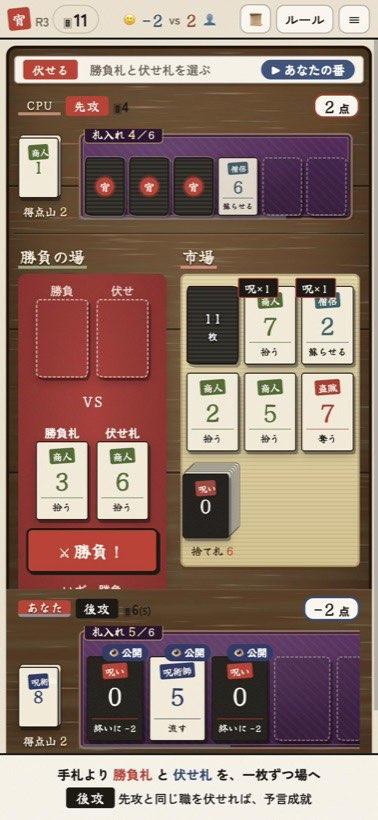
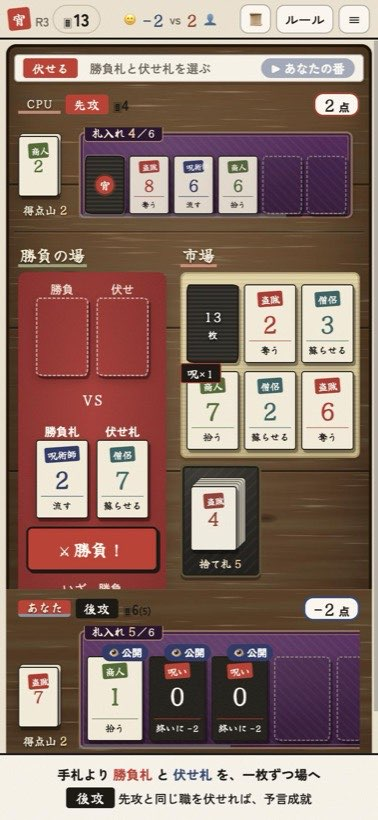
呪い市を更新（1stDCG f13bd0c）

diff --git a/index.html b/index.html
@@ -1042,6 +1042,20 @@ details.fold .quick-title, details.fold .rl-h3 { display: none; }
   .pstats-sub { flex-wrap: nowrap; white-space: nowrap; overflow: hidden; }
   .pstats-main .role-hint { white-space: nowrap; overflow: hidden; text-overflow: ellipsis; max-width: 520px; }
 }
+
+/* 捨て札は、市場の茣蓙とは別の墨色の敷物に置く */
+.market-wrap { display: flex; align-items: stretch; gap: 10px; }
+.discard-mat { flex: none; display: flex; align-items: center; justify-content: center; padding: 12px 12px 8px; border-radius: 6px;
+  background: repeating-linear-gradient(135deg, rgba(255,255,255,.035) 0 2px, transparent 2px 8px), radial-gradient(ellipse at 30% 20%, rgba(255,255,255,.08), transparent 60%), linear-gradient(180deg, #34302b, #221f1b);
+  box-shadow: inset 0 0 0 2px rgba(214,178,98,.35), inset 0 0 0 4px #221f1b, 0 3px 0 rgba(0,0,0,.35); }
+.discard-mat .discard-pile { margin: 0; padding: 0; border: none; }
+.discard-mat .dp-label { color: #f1e3c8; }
+.discard-mat .dp-label b { color: #ffd59a; }
+.discard-mat .sp-empty { color: #cfc3ae; border-color: rgba(241,227,200,.35); }
+@media (max-width: 600px) {
+  .market-wrap { flex-direction: column; gap: 6px; }
+  .discard-mat { align-self: flex-start; padding: 8px 10px 6px; }
+}
 </style>
 </head>
 <body>
@@ -1135,7 +1149,7 @@ details.fold .quick-title, details.fold .rl-h3 { display: none; }
       </ul>
     </li>
     <li><b>🔮 伏せ札オープン</b>
-      <div>2人の伏せ札が<b>同じ種類</b>なら、<b>後攻の予言成功</b>：先攻の伏せ札は無効（効果は発動せず、手札に戻る）。</div>
+      <div>2人の伏せ札が<b>同じ種類</b>なら、<b>後攻の予言成功</b>：先攻の伏せ札は無効（効果は発動せず、捨て札になる）。</div>
     </li>
     <li><b>✨ 伏せ札の効果</b>
       <div>後攻 → 先攻 の順に、<b>必ず発動して捨て札</b>になる（効果で何も起きないときも捨て札）。</div>
@@ -1153,7 +1167,7 @@ details.fold .quick-title, details.fold .rl-h3 { display: none; }
     <div class="rl-box-title">🌕 満月と 🌑 月蝕 <span>（終盤に1回）</span></div>
     <ul class="rl-sub">
       <li><b>いつ</b>：山札が残り10枚を切ったラウンドの初めに、<b>本当の点数</b>（秘密の手札の呪いも含む）で負けている側に満月、勝っている側に月蝕が配られる。正確な点数は知らされない。同点なら次のラウンドで改めて判定</li>
-      <li><b>🌕満月</b>：月蝕以外のすべてに勝ち、<b>負けた相手の札の効果を無効</b>にする。さらに手札の呪い1枚を市場の好きなカードに付けられる</li>
+      <li><b>🌕満月</b>：月蝕以外のすべてに勝ち、<b>負けた相手の札の効果を無効</b>にする（呪いも押し付けられない）。さらに手札の呪い1枚を市場の好きなカードに付けられる</li>
       <li><b>🌑月蝕</b>：満月に勝ち、満月の効果を打ち消す。さらに<b>捨て札から1枚</b>（打ち消した満月も可）を手札に加えられる。満月以外には数字0</li>
       <li>どちらも<b>勝負札専用</b>。使ったら捨て札（得点山には入らない）。持っていても減点なし。僧侶の「蘇らせる」で拾い直せる</li>
     </ul>
@@ -1178,8 +1192,8 @@ details.fold .quick-title, details.fold .rl-h3 { display: none; }
 <template id="screenGuide">
   <div class="screen-guide">
     <div class="sg-shots">
-      <figure class="sg-shot"><div class="sg-img"><img src="guide-pc.jpg" alt="PCで遊んでいるときの画面" loading="lazy"><span class="sg-mark" style="left:11.5%;top:0.5%">1</span><span class="sg-mark" style="left:44%;top:0.5%">2</span><span class="sg-mark" style="left:86.5%;top:0.5%">11</span><span class="sg-mark" style="left:2.2%;top:7.5%">4</span><span class="sg-mark" style="left:33%;top:33%">5</span><span class="sg-mark" style="left:71.5%;top:39%">13</span><span class="sg-mark" style="left:2.5%;top:36.5%">6</span><span class="sg-mark" style="left:21%;top:47%">7</span><span class="sg-mark" style="left:2.2%;top:80.5%">12</span><span class="sg-mark" style="left:8.6%;top:81.5%">8</span><span class="sg-mark" style="left:43.4%;top:81.5%">14</span><span class="sg-mark" style="left:81%;top:6%">9</span><span class="sg-mark" style="left:81%;top:27.5%">10</span><span class="sg-mark" style="left:81%;top:57.5%">3</span></div><figcaption>PC の画面</figcaption></figure>
-      <figure class="sg-shot sp"><div class="sg-img"><img src="guide-sp.jpg" alt="スマホで遊んでいるときの画面" loading="lazy"><span class="sg-mark" style="left:9%;top:0.5%">1</span><span class="sg-mark" style="left:32.5%;top:0.5%">2</span><span class="sg-mark" style="left:63%;top:0.5%">10</span><span class="sg-mark" style="left:73%;top:0.5%">11</span><span class="sg-mark" style="left:3.5%;top:6.8%">3</span><span class="sg-mark" style="left:3.5%;top:11%">4</span><span class="sg-mark" style="left:46.7%;top:29.6%">5</span><span class="sg-mark" style="left:49%;top:56%">13</span><span class="sg-mark" style="left:4.8%;top:33.4%">6</span><span class="sg-mark" style="left:7%;top:64.4%">7</span><span class="sg-mark" style="left:4.5%;top:79.6%">12</span><span class="sg-mark" style="left:20.8%;top:76.8%">8</span><span class="sg-mark" style="left:1%;top:92%">9</span></div><figcaption>スマホの画面</figcaption></figure>
+      <figure class="sg-shot"><div class="sg-img"><img src="guide-pc.jpg" alt="PCで遊んでいるときの画面" loading="lazy"><span class="sg-mark" style="left:11.5%;top:0.5%">1</span><span class="sg-mark" style="left:44%;top:0.5%">2</span><span class="sg-mark" style="left:86.5%;top:0.5%">11</span><span class="sg-mark" style="left:2.2%;top:7.5%">4</span><span class="sg-mark" style="left:32.5%;top:33%">5</span><span class="sg-mark" style="left:71.5%;top:36.5%">13</span><span class="sg-mark" style="left:2.5%;top:36.5%">6</span><span class="sg-mark" style="left:21%;top:47%">7</span><span class="sg-mark" style="left:2.2%;top:80.5%">12</span><span class="sg-mark" style="left:8.6%;top:81.5%">8</span><span class="sg-mark" style="left:43.4%;top:81.5%">14</span><span class="sg-mark" style="left:81%;top:6%">9</span><span class="sg-mark" style="left:81%;top:27.5%">10</span><span class="sg-mark" style="left:81%;top:57.5%">3</span></div><figcaption>PC の画面</figcaption></figure>
+      <figure class="sg-shot sp"><div class="sg-img"><img src="guide-sp.jpg" alt="スマホで遊んでいるときの画面" loading="lazy"><span class="sg-mark" style="left:9%;top:0.5%">1</span><span class="sg-mark" style="left:32.5%;top:0.5%">2</span><span class="sg-mark" style="left:63%;top:0.5%">10</span><span class="sg-mark" style="left:73%;top:0.5%">11</span><span class="sg-mark" style="left:3.5%;top:6.6%">3</span><span class="sg-mark" style="left:3.5%;top:10.7%">4</span><span class="sg-mark" style="left:46.7%;top:29.4%">5</span><span class="sg-mark" style="left:47.7%;top:56.6%">13</span><span class="sg-mark" style="left:4.8%;top:33.2%">6</span><span class="sg-mark" style="left:7%;top:64.2%">7</span><span class="sg-mark" style="left:4.5%;top:79.6%">12</span><span class="sg-mark" style="left:20.8%;top:76.8%">8</span><span class="sg-mark" style="left:1%;top:92%">9</span></div><figcaption>スマホの画面</figcaption></figure>
     </div>
     <ol class="sg-list">
       <li><b>ラウンド・山札</b>：今のラウンドと山札の残り（山札が尽きたラウンドで終わり）</li>
@@ -1194,7 +1208,7 @@ details.fold .quick-title, details.fold .rl-h3 { display: none; }
       <li><b>ログ</b>：これまでに起きたこと（スマホは 📜 ボタンで開く）</li>
       <li><b>ルール</b>：遊んでいる途中でも、ここからルールを確かめられる</li>
       <li><b>得点山</b>：勝った札が重なって貯まる山。押すと中身が見られる</li>
-      <li><b>捨て札</b>：市場の端。一番上が最後に捨てられた札。押すと中身が見られる</li>
+      <li><b>捨て札</b>：市場の隣の墨色の敷物。一番上が最後に捨てられた札。押すと中身が見られる</li>
       <li><b>拾い札</b>：「拾う」「蘇らせる」で手に入れた札の敷物。次のドラフトでは手札の枚数に数えない（スマホは札入れの右。横にずらすと見える）</li>
     </ol>
   </div>
@@ -1892,10 +1906,10 @@ async function playRound() {
     if (winner < 0) return { title: '引き分け', text: '両方の札の効果が発動', style: 'draw' };
     const mine = b[pi], theirs = b[1 - pi];
     if (winner === pi) return { title: '勝ち！', style: 'win',
-      text: theirs && theirs.attr === 'curse' ? '……でも相手の呪いを引き取ってしまう' : '勝負札が自分の得点山へ' };
+      text: theirs && theirs.attr === 'curse' ? (hopeWins ? '満月の力で、呪いははね返した' : '……でも相手の呪いを引き取ってしまう') : '勝負札が自分の得点山へ' };
     return { title: '負け…', style: 'lose',
       text: hasEffect(mine) ? (hopeWins ? '満月の力で、負けた札の効果は無効' : `負けた札の効果「${ATTRS[mine.attr].eff}」が発動`)
-          : mine && mine.attr === 'curse' ? '呪いを相手に押し付けた' : '勝負札は相手の得点山へ' };
+          : mine && mine.attr === 'curse' ? (hopeWins ? '満月にはね返され、呪いは手札に戻った' : '呪いを相手に押し付けた') : '勝負札は相手の得点山へ' };
   };
   render();
   await announce({ title: '', text: '', per: [resultText(0), resultText(1)] }, RESULT_ANN_MS, RESULT_ANN_MS * 0.85);
@@ -1928,6 +1942,10 @@ async function playRound() {
       if (!c) continue;
       // 満月・月蝕は得点山に入らず、使ったら捨て札になる
       if (isSpecial(c)) { toDiscard(c, `${P[pi].name}の${ATTRS[c.attr].name}（使用済み）`); moved(c, Z.field(pi, 'battle'), Z.discard); }
+      else if (c.attr === 'curse' && hopeWin && pi !== winner) {
+        // 満月は、負けた呪いの「押し付け」も無効にする。呪いは出した人の手札に戻る
+        addToHand(P[pi], c); moved(c, Z.field(pi, 'battle'), Z.hand(pi)); log(`🌕満月の力で、${P[pi].name}の呪いは押し付けられずに手札へ戻った`, 'hl');
+      }
       else if (c.attr === 'curse') { addToHand(W, c); moved(c, Z.field(pi, 'battle'), Z.hand(winner)); if (pi !== winner) log(`${W.name}は呪いを引き取った`); }
       else { toScore(W, c, `${P[pi].name}の勝負札（${pi === winner ? '勝ち' : '負け'}）`); moved(c, Z.field(pi, 'battle'), Z.score(winner)); }
     }
@@ -1954,19 +1972,19 @@ async function playRound() {
   await announce({ title: '🔮 伏せ札、開帳', text: '後攻が先攻と同じ職を伏せたなら、予言成就。先攻の伏せ札は封じられる', style: 'fuse' }, PHASE_ANN_MS, PHASE_ANN_MS * 0.7);
   await reveal('fuse');
   log(`伏せ札オープン：${P[0].name} ${cardName(fz[0])} / ${P[1].name} ${cardName(fz[1])}`);
-  // 予言成功（2人の伏せ札が同じ種類）なら、先攻の伏せ札は無効になり手札に戻る
+  // 予言成功（2人の伏せ札が同じ種類）なら、先攻の伏せ札は無効になり捨て札へ
   const active = [!!fz[0], !!fz[1]];
   if (fz[0] && fz[1] && fz[0].attr === fz[1].attr) {
     log(`予言成功！ ${P[s].name}（後攻）が伏せ札を読み切った`, 'hl');
     G.field.prophecy = true;
-    // まず当てた後攻の伏せ札に「予言成功！」を出し、そのあと無効になった先攻の伏せ札を手札へ戻す
+    // まず当てた後攻の伏せ札に「予言成功！」を出し、そのあと無効になった先攻の伏せ札を捨て札へ
     G.fx = { pi: s, kind: 'fuse', label: '🔮予言成就！' };
     render();
     await sleep(FX_STEP * 1.5);
     active[f] = false;
-    addToHand(P[f], fz[f]);
-    moved(fz[f], Z.field(f, 'fuse'), Z.hand(f));
-    log(`${P[f].name}の伏せ札は無効 → 手札に戻る`);
+    toDiscard(fz[f], `${P[f].name}の伏せ札（予言で無効）`);
+    moved(fz[f], Z.field(f, 'fuse'), Z.discard);
+    log(`${P[f].name}の伏せ札は無効 → 捨て札へ`);
     render();
     await sleep(FX_STEP);
     G.fx = null;
@@ -2065,7 +2083,7 @@ function cardTipFull(attr, num, full) {
   if (attr === 'hope') {
     return `<div class="tip-head" data-attr="hope"><span class="tip-num">月</span>🌕 満月<span class="tip-role">負けている側の切り札</span></div>
       ${full ? tipSec('warn', '配られるとき', '', 0, `山札が残り <b>${HOPE_DECK}枚</b> を切ったとき、<b>本当の点数</b>（秘密の手札の呪いも含む）で<b>負けている側</b>に配られる`) : ''}
-      ${tipSec('win', '勝負札にすると', '', 0, `<b>月蝕以外のすべての札に勝つ</b>。さらに<b>負けた相手の札の効果を無効</b>にし、手札の呪いを <b>1枚</b>、市場の好きなカード（呪いが付いていないもの）に付けられる`)}
+      ${tipSec('win', '勝負札にすると', '', 0, `<b>月蝕以外のすべての札に勝つ</b>。さらに<b>負けた相手の札の効果を無効</b>にし（呪いも押し付けられない）、手札の呪いを <b>1枚</b>、市場の好きなカード（呪いが付いていないもの）に付けられる`)}
       <div class="tip-special"><b>相手の勝負札が月蝕のとき</b>：満月の効果は打ち消されて負ける。捨て札に入った満月は、月蝕側に<b>奪われる</b>ことがある</div>
       ${full ? '<div class="tip-note">・勝負札専用（伏せ札にはできない）<br>・使ったら捨て札になる（得点山には入らない）。僧侶の「蘇らせる」で拾い直せる</div>' : ''}`;
   }
@@ -2275,7 +2293,7 @@ function renderView(v) {
   setHTML(msec, `<h2><span class="zone-tag">市場</span> ${pickM
       ? `<span class="pick-banner">▼ ${ui.banner || 'ここから1枚選んでください'}</span>`
       : '<span class="pc-only">みんなで取り合うカード（強いカードには呪いが取り付く）</span>'}</h2>
-    <div class="row">${deckHTML(v.deck)}${v.market.map((s, i) => `<div class="slot ${!pickM ? '' : ui.allowed && !ui.allowed.includes(i) ? 'dim' : 'clickable'}" data-action="market" data-i="${i}">${cardHTML(s.card)}${s.curses.length ? `<div class="curse-tag">呪×${s.curses.length}</div>` : ''}</div>`).join('') || '<span class="info">（空）</span>'}${discardPileHTML(v.discard)}</div>`);
+    <div class="market-wrap"><div class="row">${deckHTML(v.deck)}${v.market.map((s, i) => `<div class="slot ${!pickM ? '' : ui.allowed && !ui.allowed.includes(i) ? 'dim' : 'clickable'}" data-action="market" data-i="${i}">${cardHTML(s.card)}${s.curses.length ? `<div class="curse-tag">呪×${s.curses.length}</div>` : ''}</div>`).join('') || '<span class="info">（空）</span>'}</div><div class="discard-mat">${discardPileHTML(v.discard)}</div></div>`);
 
   // スマホでは、市場から選ぶ番になったら市場が見えるところまで動かす
   if (phone && pickM && scrolledPick !== ui.id) { scrolledPick = ui.id; msec.scrollIntoView({ block: 'nearest', behavior: 'smooth' }); }
